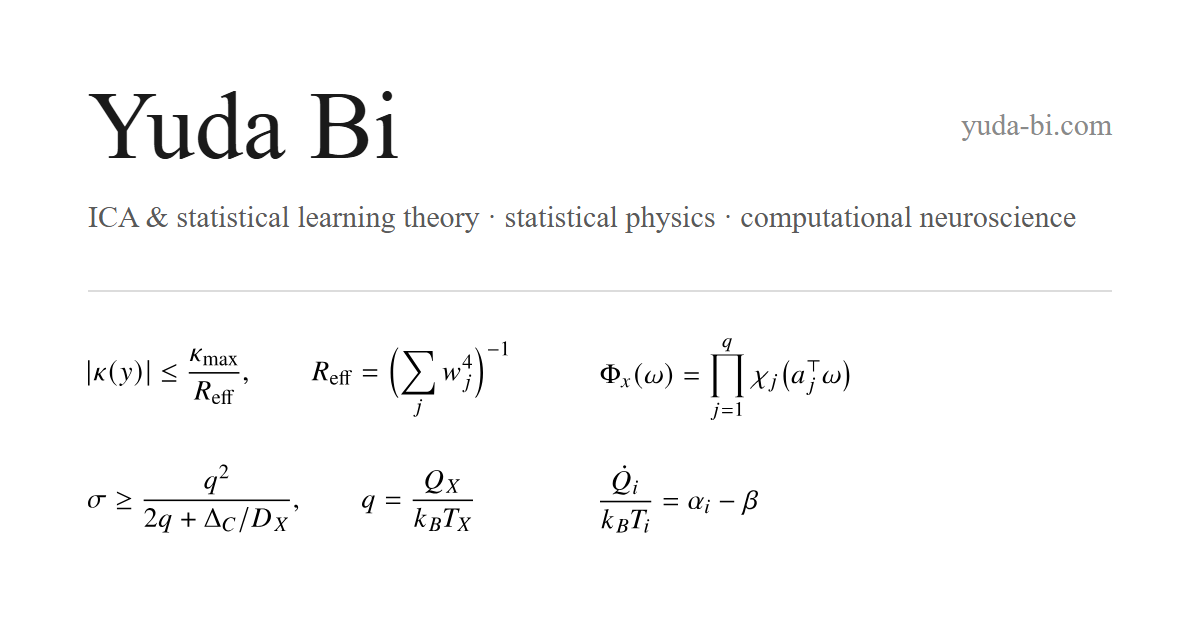
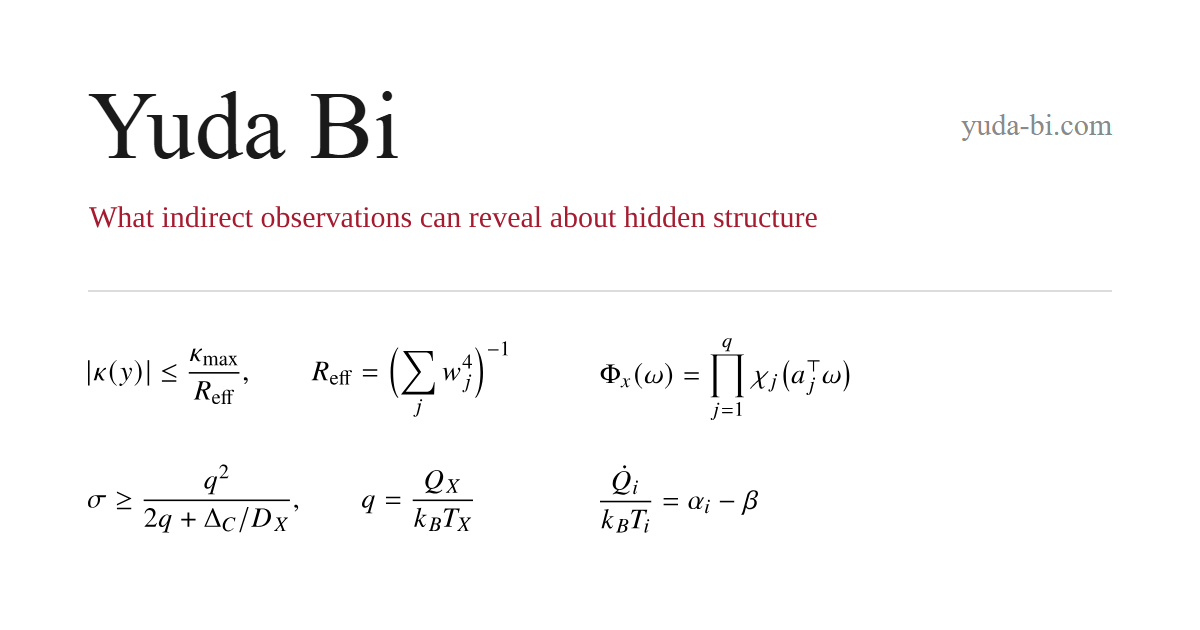
Homepage: define the research by its question, not by ICA
New research statement (what indirect observations can reveal about hidden structure) with the question in red and the steps in bold; directions renamed to latent-variable models, partially observed dynamics, and inference in brain imaging; the ICA book moves to a Teaching section after the papers; descriptions, social card and the site check updated to match.

Claude-Session: https://claude.ai/code/session_01KxRAoLrWXBZMQ6NyoT7pAj

Changed region(s): [[0.0617, 0.3317, 0.8942, 0.3619]]

diff --git a/docs/index.html b/docs/index.html
@@ -4,7 +4,7 @@
   <meta charset="utf-8">
   <meta name="viewport" content="width=device-width, initial-scale=1">
   <title>Yuda Bi</title>
-  <meta name="description" content="Yuda Bi works on independent component analysis and statistical learning theory, statistical physics, and applications in computational neuroscience.">
+  <meta name="description" content="Yuda Bi studies what indirect observations can reveal about hidden structure, in latent-variable models such as ICA, partially observed stochastic dynamics, and brain-imaging analysis.">
   <meta name="author" content="Yuda Bi">
   <link rel="canonical" href="https://yuda-bi.com/">
 
@@ -13,19 +13,19 @@
   <meta property="og:site_name" content="Yuda Bi">
   <meta property="og:locale" content="en_US">
   <meta property="og:title" content="Yuda Bi">
-  <meta property="og:description" content="Yuda Bi works on independent component analysis and statistical learning theory, statistical physics, and applications in computational neuroscience.">
+  <meta property="og:description" content="Yuda Bi studies what indirect observations can reveal about hidden structure, in latent-variable models such as ICA, partially observed stochastic dynamics, and brain-imaging analysis.">
   <meta property="og:image" content="https://yuda-bi.com/assets/og-card.png">
   <meta property="og:image:width" content="1200">
   <meta property="og:image:height" content="630">
-  <meta property="og:image:alt" content="Yuda Bi: ICA and statistical learning theory, statistical physics, computational neuroscience">
+  <meta property="og:image:alt" content="Yuda Bi: what indirect observations can reveal about hidden structure">
   <meta name="twitter:card" content="summary_large_image">
   <meta name="twitter:title" content="Yuda Bi">
-  <meta name="twitter:description" content="Yuda Bi works on independent component analysis and statistical learning theory, statistical physics, and applications in computational neuroscience.">
+  <meta name="twitter:description" content="Yuda Bi studies what indirect observations can reveal about hidden structure, in latent-variable models such as ICA, partially observed stochastic dynamics, and brain-imaging analysis.">
   <meta name="twitter:image" content="https://yuda-bi.com/assets/og-card.png">
-  <meta name="twitter:image:alt" content="Yuda Bi: ICA and statistical learning theory, statistical physics, computational neuroscience">
+  <meta name="twitter:image:alt" content="Yuda Bi: what indirect observations can reveal about hidden structure">
 
   <link rel="icon" href="assets/favicon.svg" type="image/svg+xml">
-  <link rel="stylesheet" href="assets/site.css?v=20261102a">
+  <link rel="stylesheet" href="assets/site.css?v=20261103a">
 
   <script type="application/ld+json">
   {
@@ -42,12 +42,13 @@
     },
     "alumniOf": { "@type": "CollegeOrUniversity", "name": "Georgia State University" },
     "knowsAbout": [
+      "Statistical inference",
+      "Identifiability",
+      "Latent-variable models",
       "Independent component analysis",
       "Blind source separation",
-      "Statistical learning theory",
-      "Statistical physics",
       "Stochastic thermodynamics",
-      "Computational neuroscience"
+      "Neuroimaging"
     ],
     "sameAs": [
       "https://scholar.google.com/citations?user=yclnpogAAAAJ",
@@ -81,58 +82,53 @@
   <cite>Hannah Arendt, <i>Men in Dark Times</i> (1968)</cite>
 </blockquote>
 
-<p class="bio">I am at the <a href="https://trendscenter.org/">TReNDS Center</a>, a joint center of Georgia State University, Georgia Tech, and Emory University in Atlanta. I received my Ph.D. in Computer Science from Georgia State in 2025, advised by Vince D. Calhoun. My research has three directions:</p>
+<p class="bio">I am at the <a href="https://trendscenter.org/">TReNDS Center</a>, a joint center of Georgia State University, Georgia Tech, and Emory University in Atlanta. I received my Ph.D. in Computer Science from Georgia State in 2025, advised by Vince D. Calhoun.</p>
+
+<p class="thesis">I study <strong class="thesis-lead">what indirect observations can reveal about hidden structure</strong>: what an observation process <b>preserves</b> and what it <b>erases</b>, what can be <b>identified</b> at all and at what sample cost, what routine analysis choices <b>cost</b>, and when a result can be <b>certified</b> without ground truth. I work on these questions in three settings:</p>
 
 <ol class="directions" aria-label="Research directions">
   <li>
     <span class="dir-num">01</span>
-    <strong class="dir-title">ICA and statistical learning theory</strong>
-    <p>What limits blind source separation, what common estimation pipelines quietly cost, and how to certify an estimate when the true sources are never observed.</p>
+    <strong class="dir-title">Latent-variable models</strong>
+    <p>Mixtures of independent sources (ICA) as the main model: how much signal a mixture leaves, <b>what no estimator can recover</b>, what normalization choices cost, and how to certify an estimate without the sources.</p>
   </li>
   <li>
     <span class="dir-num">02</span>
-    <strong class="dir-title">Statistical physics</strong>
-    <p>How much heat and dissipation can be inferred from stochastic records when part of the dynamics is hidden.</p>
+    <strong class="dir-title">Partially observed dynamics</strong>
+    <p>Stochastic thermodynamics with hidden degrees of freedom: how much heat and dissipation a partial record can reveal, and <b>which added measurement makes them identifiable</b>.</p>
   </li>
   <li>
     <span class="dir-num">03</span>
-    <strong class="dir-title">Computational neuroscience</strong>
-    <p>Applications of ICA and related models to brain imaging data such as fMRI, building on my earlier work in multimodal neuroimaging.</p>
+    <strong class="dir-title">Inference in brain imaging</strong>
+    <p>What template-based fMRI connectivity analyses <b>can and cannot establish</b>, from diagnostics that are blind by construction to robustness checks that cannot tell topography from coupling.</p>
   </li>
 </ol>
-
-<a class="book-promo" href="ica/">
-  <span class="promo-kicker">Open book &middot; English / 中文</span>
-  <span class="promo-title">Independent Component Analysis: From Foundations to Frontiers</span>
-  <span class="promo-desc">A bilingual course on ICA in fifteen chapters, from the mixing model and identifiability through contrasts, algorithms and the Cram&eacute;r&ndash;Rao bound to overcomplete and nonlinear ICA and ICA for fMRI, with exercises and solutions.</span>
-  <span class="promo-cta">Read the book &rarr;</span>
-</a>
 
 <main>
 
 <h2>Papers</h2>
 
 <nav class="toc-card" aria-label="Papers">
-  <p class="toc-group">ICA and statistical learning theory</p>
+  <p class="toc-group">Latent-variable models</p>
   <ol class="toc">
     <li><a href="#kurtosis-law"><span class="toc-num">1</span><span class="toc-title">A 1/<var>R</var> Law for Kurtosis Contrast in Balanced Mixtures</span><span class="tag tag-pub">IEEE SPL 2026</span></a></li>
     <li><a href="#zeros"><span class="toc-num">2</span><span class="toc-title">Zeros That Survive Mixing: Hardness and Immunity in Overcomplete ICA</span><span class="tag">Submitted &middot; IEEE SPL</span></a></li>
     <li><a href="#normalization"><span class="toc-num">3</span><span class="toc-title">Normalization Mismatch in ICA and Its Orthogonalized Remedy</span><span class="tag">Submitted &middot; IEEE TSP</span></a></li>
     <li><a href="#certificates"><span class="toc-num">4</span><span class="toc-title">Sharp Two-Sided Residual Certificates for Comparing ICA Estimates Without the Sources</span><span class="tag">Under review</span></a></li>
   </ol>
-  <p class="toc-group">Statistical physics</p>
+  <p class="toc-group">Partially observed dynamics</p>
   <ol class="toc" start="5">
     <li><a href="#heat-threshold"><span class="toc-num">5</span><span class="toc-title">Heat Constraints from Exponential Correlations and a Sharp Two-Temperature Threshold</span><span class="tag">Submitted &middot; 2026</span></a></li>
     <li><a href="#two-probes"><span class="toc-num">6</span><span class="toc-title">Two Probes Recover the Bath Heat That Neither Reveals Alone</span><span class="tag">Submitted &middot; 2026</span></a></li>
   </ol>
-  <p class="toc-group">Computational neuroscience</p>
+  <p class="toc-group">Inference in brain imaging</p>
   <ol class="toc" start="7">
     <li><a href="#template-mismatch"><span class="toc-num">7</span><span class="toc-title">A Study&rsquo;s Own Dual-Regression Maps Cannot Identify Template Mismatch</span><span class="tag">Submitted &middot; ISBI 2027</span></a></li>
     <li><a href="#topography-coupling"><span class="toc-num">8</span><span class="toc-title">Persistence Under Robustness Checks Cannot Tell Topography from Coupling in Connectivity Group Differences</span><span class="tag">Submitted &middot; ISBI 2027</span></a></li>
   </ol>
 </nav>
 
-<h2>ICA and statistical learning theory</h2>
+<h2>Latent-variable models</h2>
 
 <!-- ============== 1. A 1/R Law for Kurtosis Contrast in Balanced Mixtures ============== -->
 <article class="paper" id="kurtosis-law">
@@ -381,7 +377,7 @@
   </div>
 </article>
 
-<h2>Statistical physics</h2>
+<h2>Partially observed dynamics</h2>
 
 <!-- ============== 5. Heat constraints from exponential correlations ============== -->
 <article class="paper" id="heat-threshold">
@@ -497,7 +493,7 @@
   </div>
 </article>
 
-<h2>Computational neuroscience</h2>
+<h2>Inference in brain imaging</h2>
 
 <!-- ============== 7. A Study's Own Dual-Regression Maps Cannot Identify Template Mismatch ============== -->
 <article class="paper" id="template-mismatch">
@@ -651,6 +647,15 @@
     <p class="to-top"><a href="#top">Back to top &uarr;</a></p>
   </div>
 </article>
+
+<h2 id="teaching">Teaching</h2>
+
+<a class="book-promo" href="ica/">
+  <span class="promo-kicker">Open book &middot; English / 中文</span>
+  <span class="promo-title">Independent Component Analysis: From Foundations to Frontiers</span>
+  <span class="promo-desc">A bilingual course on ICA in fifteen chapters, from the mixing model and identifiability through contrasts, algorithms and the Cram&eacute;r&ndash;Rao bound to overcomplete and nonlinear ICA and ICA for fMRI, with exercises and solutions.</span>
+  <span class="promo-cta">Read the book &rarr;</span>
+</a>
 
 </main>
 

diff --git a/docs/assets/site.css b/docs/assets/site.css
@@ -15,6 +15,7 @@
   --panel: #fafbfc;      /* formula panel */
   --accent: #1f4e8c;
   --link: #1f4e8c;
+  --emph: #a51c30;       /* the one red phrase: the research question */
   --shadow: 0 1px 2px rgba(16, 32, 64, 0.04), 0 8px 20px -18px rgba(16, 32, 64, 0.28);
   --measure: 40rem;   /* ~78 characters per line in Times at 17px */
 }
@@ -175,6 +176,10 @@ h1 {
 
 .bio { margin: 1.5rem 0 0; }
 
+/* Research statement: the question in red, the steps of the program in bold */
+.thesis { margin: 0.85rem 0 0; }
+.thesis-lead { color: var(--emph); font-weight: 700; }
+
 /* Research directions */
 .directions {
   list-style: none;
@@ -200,6 +205,7 @@ h1 {
   line-height: 1.3;
 }
 .directions p { margin: 0; font-size: 0.9rem; line-height: 1.5; color: var(--muted); }
+.directions p b { color: var(--ink); }
 
 /* Link to the ICA book (/ica/) */
 .book-promo {
@@ -214,6 +220,7 @@ h1 {
   color: var(--text);
   transition: border-color 120ms ease, background-color 120ms ease;
 }
+h2 + .book-promo { margin-top: 0; }
 .book-promo:hover { text-decoration: none; border-color: var(--accent); }
 .book-promo:hover .promo-cta { text-decoration: underline; text-underline-offset: 0.15em; }
 .promo-kicker {

diff --git a/docs/404.html b/docs/404.html
@@ -6,7 +6,7 @@
   <title>Page not found – Yuda Bi</title>
   <meta name="robots" content="noindex">
   <link rel="icon" href="/assets/favicon.svg" type="image/svg+xml">
-  <link rel="stylesheet" href="/assets/site.css?v=20261102a">
+  <link rel="stylesheet" href="/assets/site.css?v=20261103a">
 </head>
 <body>
   <main class="page">

diff --git a/scripts/check_site_quality.py b/scripts/check_site_quality.py
@@ -18,7 +18,7 @@ CRITICAL_PAGES = {
     "index.html": {
         "lang": "en",
         "title": "Yuda Bi",
-        "description": "Yuda Bi works on independent component analysis and statistical learning theory, statistical physics, and applications in computational neuroscience.",
+        "description": "Yuda Bi studies what indirect observations can reveal about hidden structure, in latent-variable models such as ICA, partially observed stochastic dynamics, and brain-imaging analysis.",
     },
 }
 
